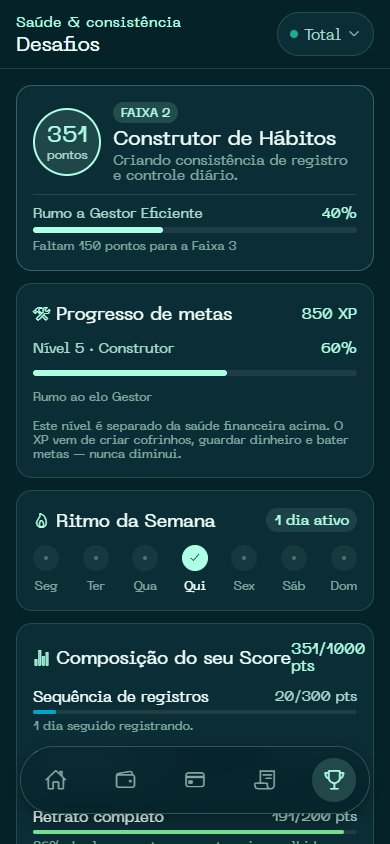
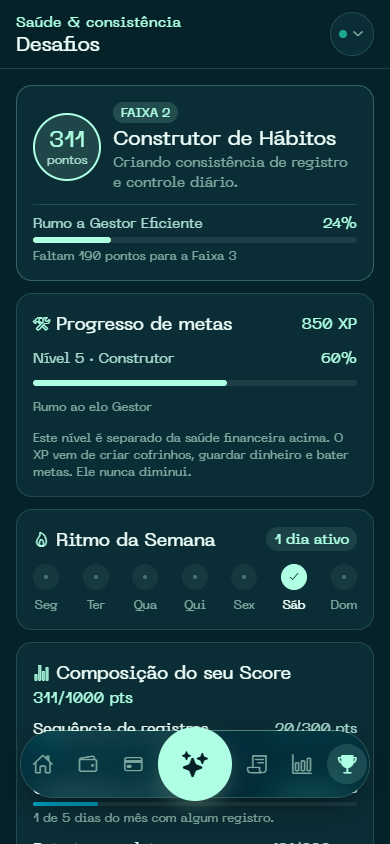
fix: recaptura as telas mobile e corrige o que os prints revelaram
As 5 capturas eram de 03/09, antes da barra passar de 5 para 7 destinos.
Refeitas seguindo o procedimento ja documentado: conta de demonstracao,
modo Dados de exemplo, navegacao so pela UI e badge "(exemplo)" ocultada
via DOM na hora, nunca no codigo.

Capturar expos cinco defeitos que so aparecem em tela estreita:

- Overlay de erro do React em toda captura. Causa: PieChart e
  StackedBarChart passavam accessibilityElementsHidden pro DOM na web,
  onde a react-native-svg nao traduz a prop. Uma correcao anterior tratou
  importantForAccessibility e deixou esta passando, supondo que bastasse
  na web — nao basta. Ambas agora sao so de nativo.
- "Boa noite, Mariana Alves" truncava mesmo em duas linhas. Saudacao usa
  primeiro nome, cortado na origem em vez de espremer o layout.
  nomeDeExibicao segue devolvendo o nome inteiro, que e o certo no Perfil.
- Titulo do cabecalho quebrava no MEIO da palavra ("Lancam"/"entos") na
  web depois que liberei duas linhas. Adicionado wordBreak keep-all.
- A pilula de carteira perde o rotulo em tela estreita. Medido: 4 icones
  (~176px) mais a pilula com rotulo (~90px) consomem 266px de 390, e
  sobram ~124px pro titulo, que precisa de ~130. Sem o rotulo sobra o que
  falta. Cor, seta, alvo de toque e rotulo acessivel permanecem.
- Os tres valores do resumo do mes se encostavam. adjustsFontSizeToFit so
  existe em iOS/Android, entao na web o tamanho base precisa caber
  sozinho: um degrau menor em compacto, mais minWidth 0 e padding.
[…]

diff --git a/app/(app)/lancamentos.tsx b/app/(app)/lancamentos.tsx
@@ -17,7 +17,7 @@ import {
 import { Alert } from '@/lib/alert';
 import { SafeAreaView } from 'react-native-safe-area-context';
 import { useTabBarInset } from '@/lib/tab-bar';
-import { colunaConteudo } from '@/lib/breakpoints';
+import { colunaConteudo, useBreakpoint } from '@/lib/breakpoints';
 import { Ionicons } from '@expo/vector-icons';
 import AppPressable from '@/components/AppPressable';
 import ScreenHeader from '@/components/ScreenHeader';
@@ -130,6 +130,7 @@ export default function LancamentosScreen() {
   const router = useRouter();
   const { novoLancamento } = useLocalSearchParams<{ novoLancamento?: string }>();
   const { paddingConteudoComFab } = useTabBarInset();
+  const { ehCompacto } = useBreakpoint();
   const { isDemoMode } = useDemo();
   const { activeWalletId, activeWallet, activeWalletName } = useWallet();
   const { hidden, toggle: togglePrivacy } = usePrivacy();
@@ -613,7 +614,7 @@ export default function LancamentosScreen() {
           <View style={styles.monthSummaryCol}>
             <Text style={styles.monthSummaryLabel}>Entradas</Text>
             <PrivacyValue style={{ alignItems: 'center' }}>
-              <Text style={[styles.monthSummaryVal, { color: theme.up }]} numberOfLines={1} adjustsFontSizeToFit minimumFontScale={0.75}>
+              <Text style={[styles.monthSummaryVal, ehCompacto && styles.monthSummaryValCompacto, { color: theme.up }]} numberOfLines={1} adjustsFontSizeToFit minimumFontScale={0.75}>
                 {formatBRL(monthIn, '+')}
               </Text>
             </PrivacyValue>
@@ -622,7 +623,7 @@ export default function LancamentosScreen() {
           <View style={styles.monthSummaryCol}>
             <Text style={styles.monthSummaryLabel}>Saídas</Text>
             <PrivacyValue style={{ alignItems: 'center' }}>
-              <Text style={[styles.monthSummaryVal, { color: theme.down }]} numberOfLines={1} adjustsFontSizeToFit minimumFontScale={0.75}>
+              <Text style={[styles.monthSummaryVal, ehCompacto && styles.monthSummaryValCompacto, { color: theme.down }]} numberOfLines={1} adjustsFontSizeToFit minimumFontScale={0.75}>
                 {formatBRL(monthOut, '−')}
               </Text>
             </PrivacyValue>
@@ -632,7 +633,7 @@ export default function LancamentosScreen() {
             <Text style={styles.monthSummaryLabel}>Saldo</Text>
             <PrivacyValue style={{ alignItems: 'center' }}>
               <Text
-                style={[styles.monthSummaryVal, { color: monthBalance >= 0 ? theme.ink : theme.down }]}
+                style={[styles.monthSummaryVal, ehCompacto && styles.monthSummaryValCompacto, { color: monthBalance >= 0 ? theme.ink : theme.down }]}
                 numberOfLines={1}
                 adjustsFontSizeToFit
                 minimumFontScale={0.75}
@@ -849,11 +850,26 @@ const styles = StyleSheet.create({
     borderWidth: 1,
     borderColor: theme.rule,
   },
-  monthSummaryCol: { flex: 1, alignItems: 'center' },
+  /* `minWidth: 0` deixa a coluna encolher abaixo do texto (padrão do flex é
+     não encolher além do conteúdo, e sem isso as três colunas empurram umas
+     às outras até os valores se encostarem). O padding garante que, mesmo no
+     limite, sobre respiro antes do divisor. */
+  monthSummaryCol: { flex: 1, minWidth: 0, alignItems: 'center', paddingHorizontal: spacing.xs },
   monthSummaryLabel: { color: theme.inkFaint, fontSize: type.legenda,
   lineHeight: lh(type.legenda, 'apoio'), marginBottom: spacing.fio, letterSpacing: 0.5, fontFamily: fonts.light },
-  monthSummaryVal: { fontSize: type.apoio,
-  lineHeight: lh(type.apoio, 'apoio'), fontVariant: ['tabular-nums'], fontFamily: fonts.regular },
+  /* `type.nota` e não `type.apoio`: são TRÊS quantias lado a lado numa tela
+     de 390px, e a 16px "+ R$ 7.050,00" encostava na vizinha. O
+     `adjustsFontSizeToFit` do JSX cobre o caso extremo, mas só existe em
+     iOS/Android — na web ele é ignorado, então o tamanho base precisa caber
+     por conta própria. */
+  monthSummaryVal: { fontSize: type.nota,
+  lineHeight: lh(type.nota, 'apoio'), fontVariant: ['tabular-nums'], fontFamily: fonts.regular },
+  /* Um degrau a menos em tela estreita. Medido: três quantias de ~13
+     caracteres dividem ~100px de coluna num aparelho de 390px, e a 15px elas
+     encostam no divisor. A 14px sobra respiro. É a mesma razão de o valor já
+     ter caído de `apoio` pra `nota`; aqui a conta simplesmente não fecha em
+     tela pequena. */
+  monthSummaryValCompacto: { fontSize: type.legenda, lineHeight: lh(type.legenda, 'apoio') },
   monthSummaryDivider: { width: 1, height: 24, backgroundColor: theme.rule },
   dateQuickRow: { flexDirection: 'row', gap: spacing.icone, marginTop: spacing.fio },
   dateQuickChip: {

diff --git a/components/WalletPill.tsx b/components/WalletPill.tsx
@@ -2,6 +2,7 @@ import { StyleSheet, Text, View } from 'react-native';
 import { Ionicons } from '@expo/vector-icons';
 import { theme, radius, spacing, type, fonts, touchTarget } from '@/lib/theme';
 import { useWallet } from '@/lib/wallet-context';
+import { useBreakpoint } from '@/lib/breakpoints';
 import AppPressable from './AppPressable';
 
 /**
@@ -15,13 +16,28 @@ import AppPressable from './AppPressable';
  */
 export default function WalletPill({ onPress }: { onPress: () => void }) {
   const { activeWalletName, activeWalletColor } = useWallet();
+  const { ehCompacto } = useBreakpoint();
 
+  /* Em tela estreita a pílula perde o RÓTULO e fica só ponto + seta.
+     Motivo medido: numa tela de 390px, quatro ícones de ação (~176px) mais a
+     pílula com rótulo (~90px) consomem 266px, e sobram ~124px pro título —
+     "Lançamentos" precisa de ~130px e virava "Lança...". Sem o rótulo sobram
+     ~45px, que é exatamente o que falta.
+     O que se perde é o NOME da carteira; o que se mantém é a cor dela (o
+     ponto), a affordance de abrir (a seta), o alvo de toque e o rótulo
+     acessível. Quem usa leitor de tela continua ouvindo o nome. */
   return (
-    <AppPressable onPress={onPress} style={styles.pill}>
+    <AppPressable
+      onPress={onPress}
+      style={[styles.pill, ehCompacto && styles.pillCompacta]}
+      accessibilityLabel={`Carteira ${activeWalletName}. Trocar de carteira`}
+    >
       <View style={[styles.dot, { backgroundColor: activeWalletColor }]} />
-      <Text style={styles.texto} numberOfLines={1}>
-        {activeWalletName}
-      </Text>
+      {!ehCompacto && (
+        <Text style={styles.texto} numberOfLines={1}>
+          {activeWalletName}
+        </Text>
+      )}
       <Ionicons name="chevron-down" size={14} color={theme.inkFaint} />
     </AppPressable>
   );
@@ -41,6 +57,7 @@ const styles = StyleSheet.create({
     maxWidth: 132,
     minHeight: touchTarget,
   },
+  pillCompacta: { paddingHorizontal: spacing.sm, gap: 4 },
   dot: { width: 8, height: 8, borderRadius: 4 },
   texto: { color: theme.inkSoft, fontSize: type.nota, flexShrink: 1, fontFamily: fonts.light },
 });

diff --git a/components/StackedBarChart.tsx b/components/StackedBarChart.tsx
@@ -88,13 +88,17 @@ export default function StackedBarChart({
         <Svg
           width={containerWidth}
           height={height}
-          accessibilityElementsHidden
-          // Só nativo — na web a `react-native-svg` não traduz essa prop
-          // pro DOM, e ela vaza como atributo cru que o React acusa em
-          // dev ("does not recognize the `importantForAccessibility`
-          // prop"). `accessibilityElementsHidden` sozinho já basta pra
-          // web (e continua também no nativo, sem mudança de comportamento).
-          {...(Platform.OS !== 'web' ? { importantForAccessibility: 'no-hide-descendants' as const } : {})}
+          /* AS DUAS props são só de nativo. A correção anterior tratou só
+             `importantForAccessibility` e deixou esta passando, na suposição
+             de que ela bastaria na web — não basta: a `react-native-svg`
+             também não a traduz, e ela vaza como atributo cru. O React
+             acusa em dev, e o overlay de erro suja qualquer captura de tela
+             feita pra material de marketing. Na web o `View` pai já tem
+             `accessible`+`accessibilityRole`+`accessibilityLabel`, que
+             colapsa a subárvore sozinho. */
+          {...(Platform.OS !== 'web'
+            ? { accessibilityElementsHidden: true, importantForAccessibility: 'no-hide-descendants' as const }
+            : {})}
         >
           {/* Linha guia de base */}
           <Line

diff --git a/components/PieChart.tsx b/components/PieChart.tsx
@@ -181,14 +181,14 @@ function PieChart({ data, size = 216 }: { data: PieSlice[]; size?: number }) {
         width={size}
         height={size}
         viewBox={VIEW_BOX}
-        accessibilityElementsHidden
-        // Só nativo: na web a `react-native-svg` não traduz essa prop pro
-        // DOM, e ela vaza como atributo cru — React acusa em dev
-        // ("does not recognize the `importantForAccessibility` prop").
-        // Redundante ali de qualquer forma: o `View` pai já tem
-        // `accessible`+`accessibilityRole`+`accessibilityLabel`, que já
-        // colapsa a subárvore sozinho.
-        {...(Platform.OS !== 'web' ? { importantForAccessibility: 'no-hide-descendants' as const } : {})}
+        /* Ambas são só de nativo: a `react-native-svg` não traduz nenhuma
+           das duas pro DOM e elas vazam como atributo cru, que o React
+           acusa em dev. Redundantes na web de qualquer forma — o `View` pai
+           já tem `accessible`+`accessibilityRole`+`accessibilityLabel`, que
+           colapsa a subárvore sozinho. */
+        {...(Platform.OS !== 'web'
+          ? { accessibilityElementsHidden: true, importantForAccessibility: 'no-hide-descendants' as const }
+          : {})}
       >
         {slices.map(({ seg, d, labelX, labelY, mid, anchor, pct }) => {
           const cabe =

diff --git a/lib/format.ts b/lib/format.ts
@@ -224,7 +224,16 @@ export function addMonthsToISO(iso: string, months: number): string {
 export function saudacaoDoDia(nome: string): string {
   const hora = new Date().getHours();
   const periodo = hora >= 4 && hora < 12 ? 'Bom dia' : hora >= 12 && hora < 18 ? 'Boa tarde' : 'Boa noite';
-  return nome ? `${periodo}, ${nome}` : periodo;
+  /* Só o primeiro nome. Cumprimento usa primeiro nome em português, e o nome
+     completo estourava o cabeçalho: "Boa noite, Mariana Alves" virava
+     "Boa noite, Mariana ..." mesmo com o título em duas linhas, porque a
+     direita do cabeçalho (privacidade + carteira) não encolhe por regra.
+     Cortar aqui resolve na origem, em vez de espremer o layout.
+
+     `nomeDeExibicao` continua devolvendo o nome inteiro: a tela de Perfil
+     mostra a pessoa por extenso, e ali isso está certo. */
+  const primeiro = nome.trim().split(/\s+/)[0] ?? '';
+  return primeiro ? `${periodo}, ${primeiro}` : periodo;
 }
 
 export function formatDateLabel(iso: string): string {

diff --git a/components/ScreenHeader.tsx b/components/ScreenHeader.tsx
@@ -77,6 +77,7 @@ const styles = StyleSheet.create({
      borda da tela em celular grande antes desta correção. */
   leftCol: { flexDirection: 'row', alignItems: 'center', gap: spacing.md, flexShrink: 1, minWidth: 0 },
   texts: { flexShrink: 1, minWidth: 0 },
+
   eyebrowRow: { flexDirection: 'row', alignItems: 'center', gap: 6 },
   right: { flexDirection: 'row', alignItems: 'center', gap: spacing.sm, flexShrink: 0 },
   eyebrow: {
@@ -93,5 +94,11 @@ const styles = StyleSheet.create({
   title: {
     ...textStyles.title,
     color: theme.ink,
+    /* Nunca partir PALAVRA. Com duas linhas liberadas, o react-native-web
+       passou a quebrar "Lançamentos" em "Lançam"/"entos" quando a direita do
+       cabeçalho aperta a coluna — o que é pior que a reticência que as duas
+       linhas vieram resolver. Quebrar só entre palavras devolve a decisão
+       pro caminho normal: cabe em uma linha, cabe em duas, ou elide. */
+    ...({ wordBreak: 'keep-all', overflowWrap: 'normal' } as any),
   },
 });

diff --git a/app/(app)/desafios.tsx b/app/(app)/desafios.tsx
@@ -266,7 +266,8 @@ export default function DesafiosScreen() {
           {level.nextElo && (
             <Text style={styles.remainingText}>{`Rumo ao elo ${level.nextElo.title}`}</Text>
           )}
-          <Text style={styles.levelHint}>Este nível é separado da saúde financeira acima. O XP vem de criar cofrinhos, guardar dinheiro e bater metas — nunca diminui.</Text>
+          {/* Ponto final no lugar do travessão: regra de copy do projeto. */}
+          <Text style={styles.levelHint}>Este nível é separado da saúde financeira acima. O XP vem de criar cofrinhos, guardar dinheiro e bater metas. Ele nunca diminui.</Text>
         </View>
 
         {/* Ritmo Semanal */}

diff --git a/components/SafeToSpendCard.tsx b/components/SafeToSpendCard.tsx
@@ -57,7 +57,9 @@ export default function SafeToSpendCard({
 
       {sugestaoArquetipo && (
         <Text style={styles.hint}>
-          💡 Seu comportamento recente lembra o perfil {sugestaoArquetipo.emoji} {sugestaoArquetipo.nome} — vale refazer o diagnóstico no Perfil.
+          {/* Ponto final em vez de travessão: a regra de copy do projeto o
+              proíbe, e esta frase aparece no card mais visível da Início. */}
+          💡 Seu comportamento recente lembra o perfil {sugestaoArquetipo.emoji} {sugestaoArquetipo.nome}. Vale refazer o diagnóstico no Perfil.
         </Text>
       )}
     </View>
